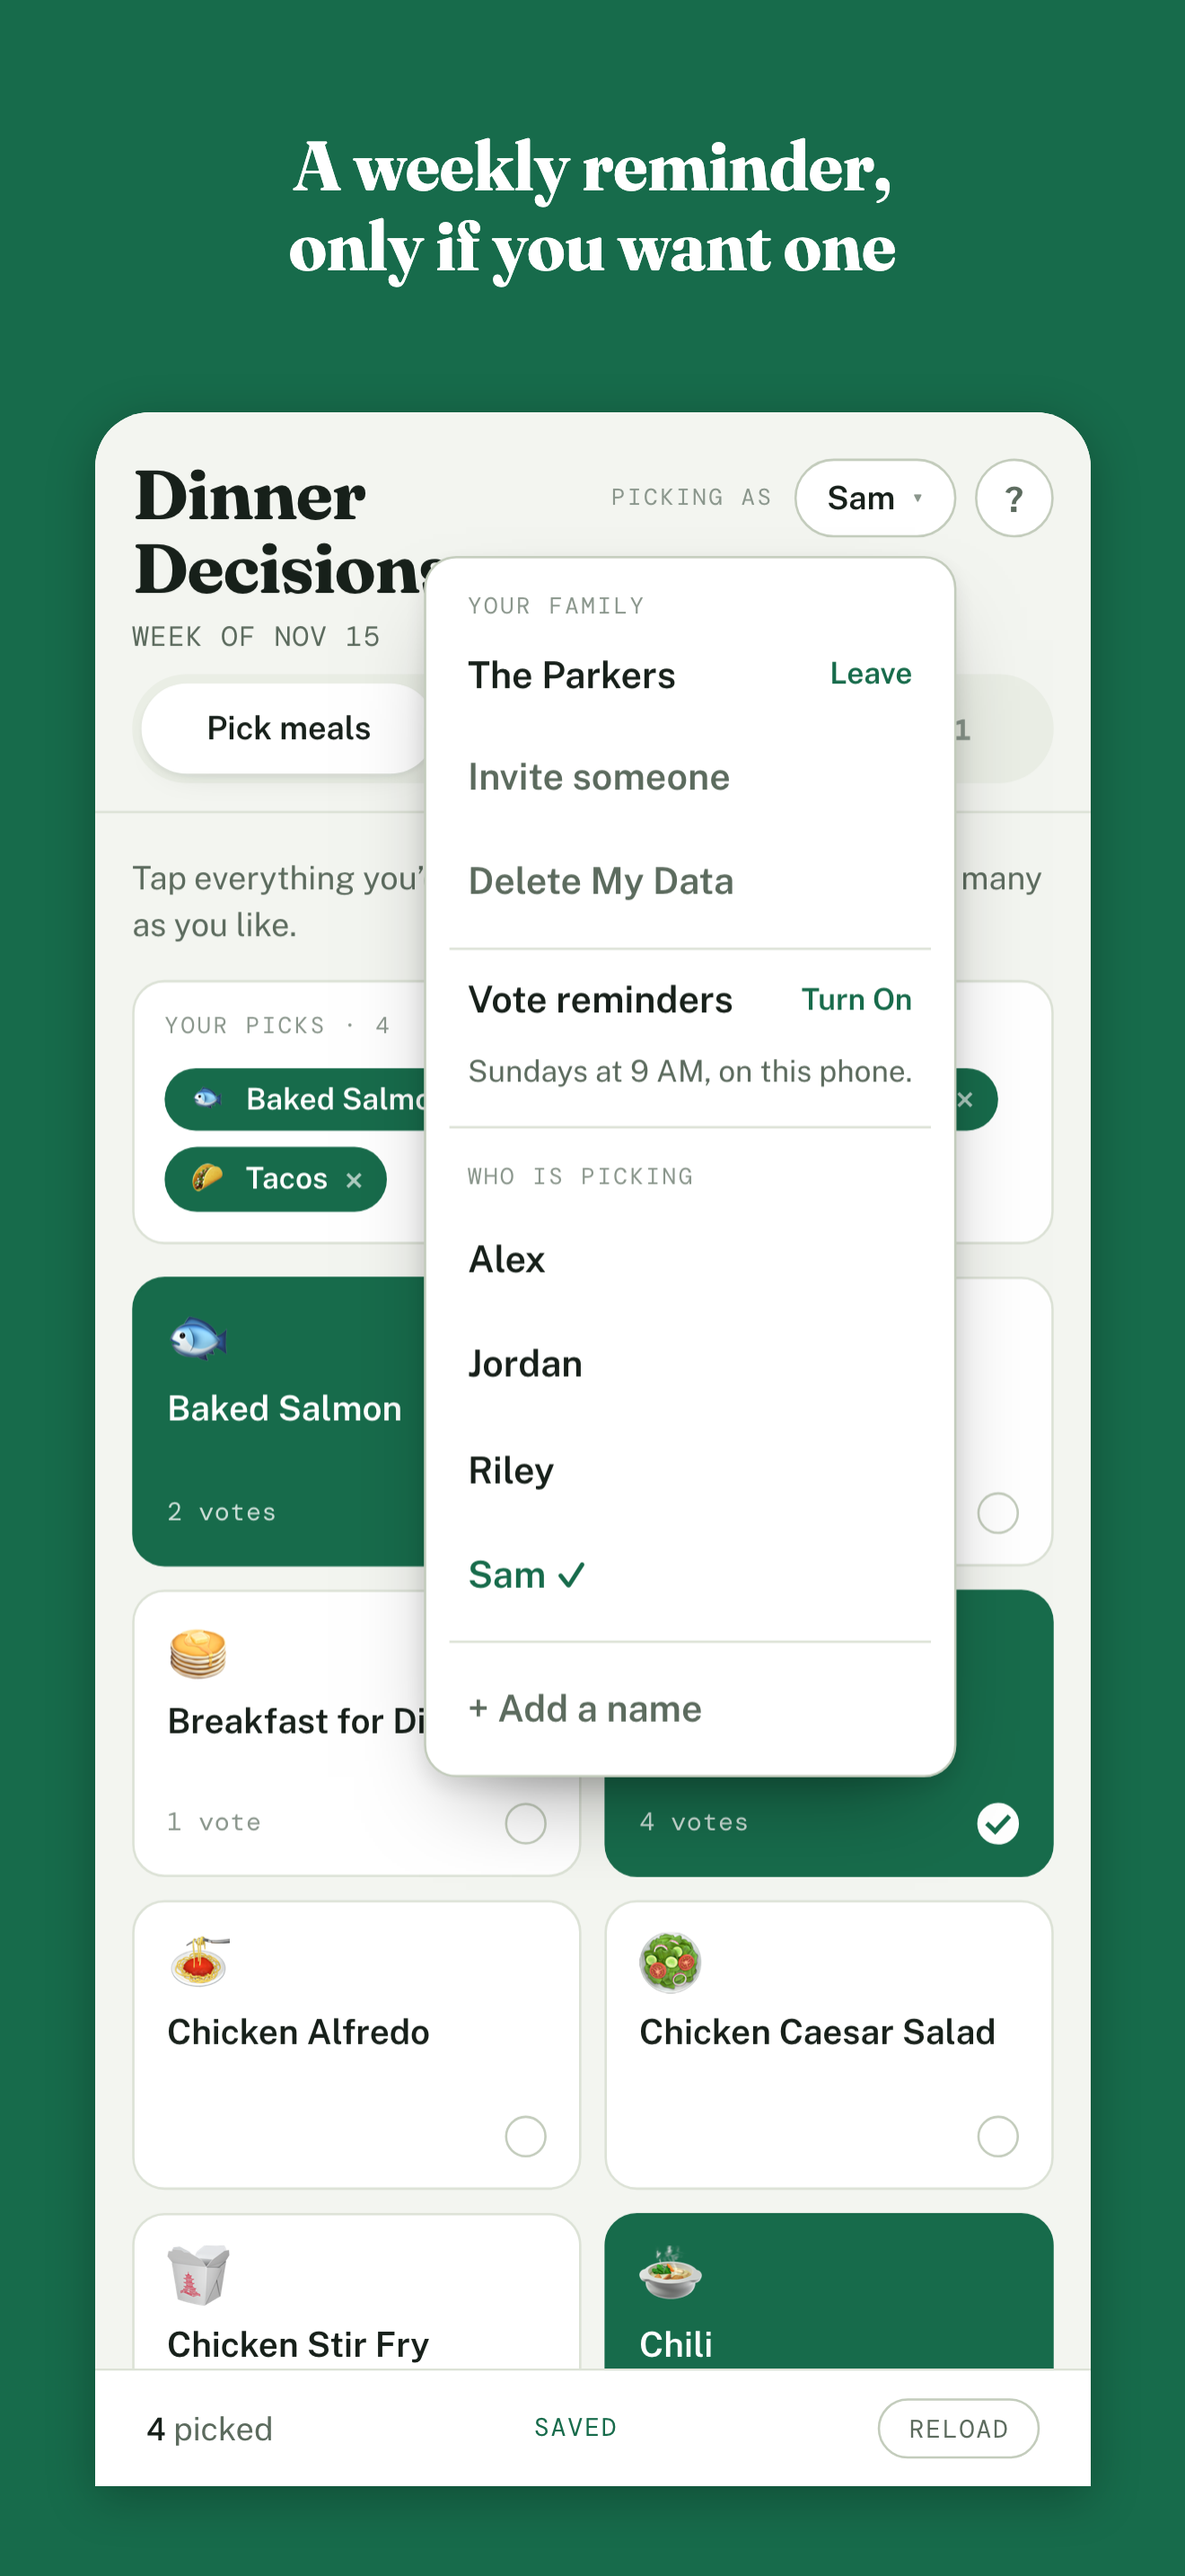
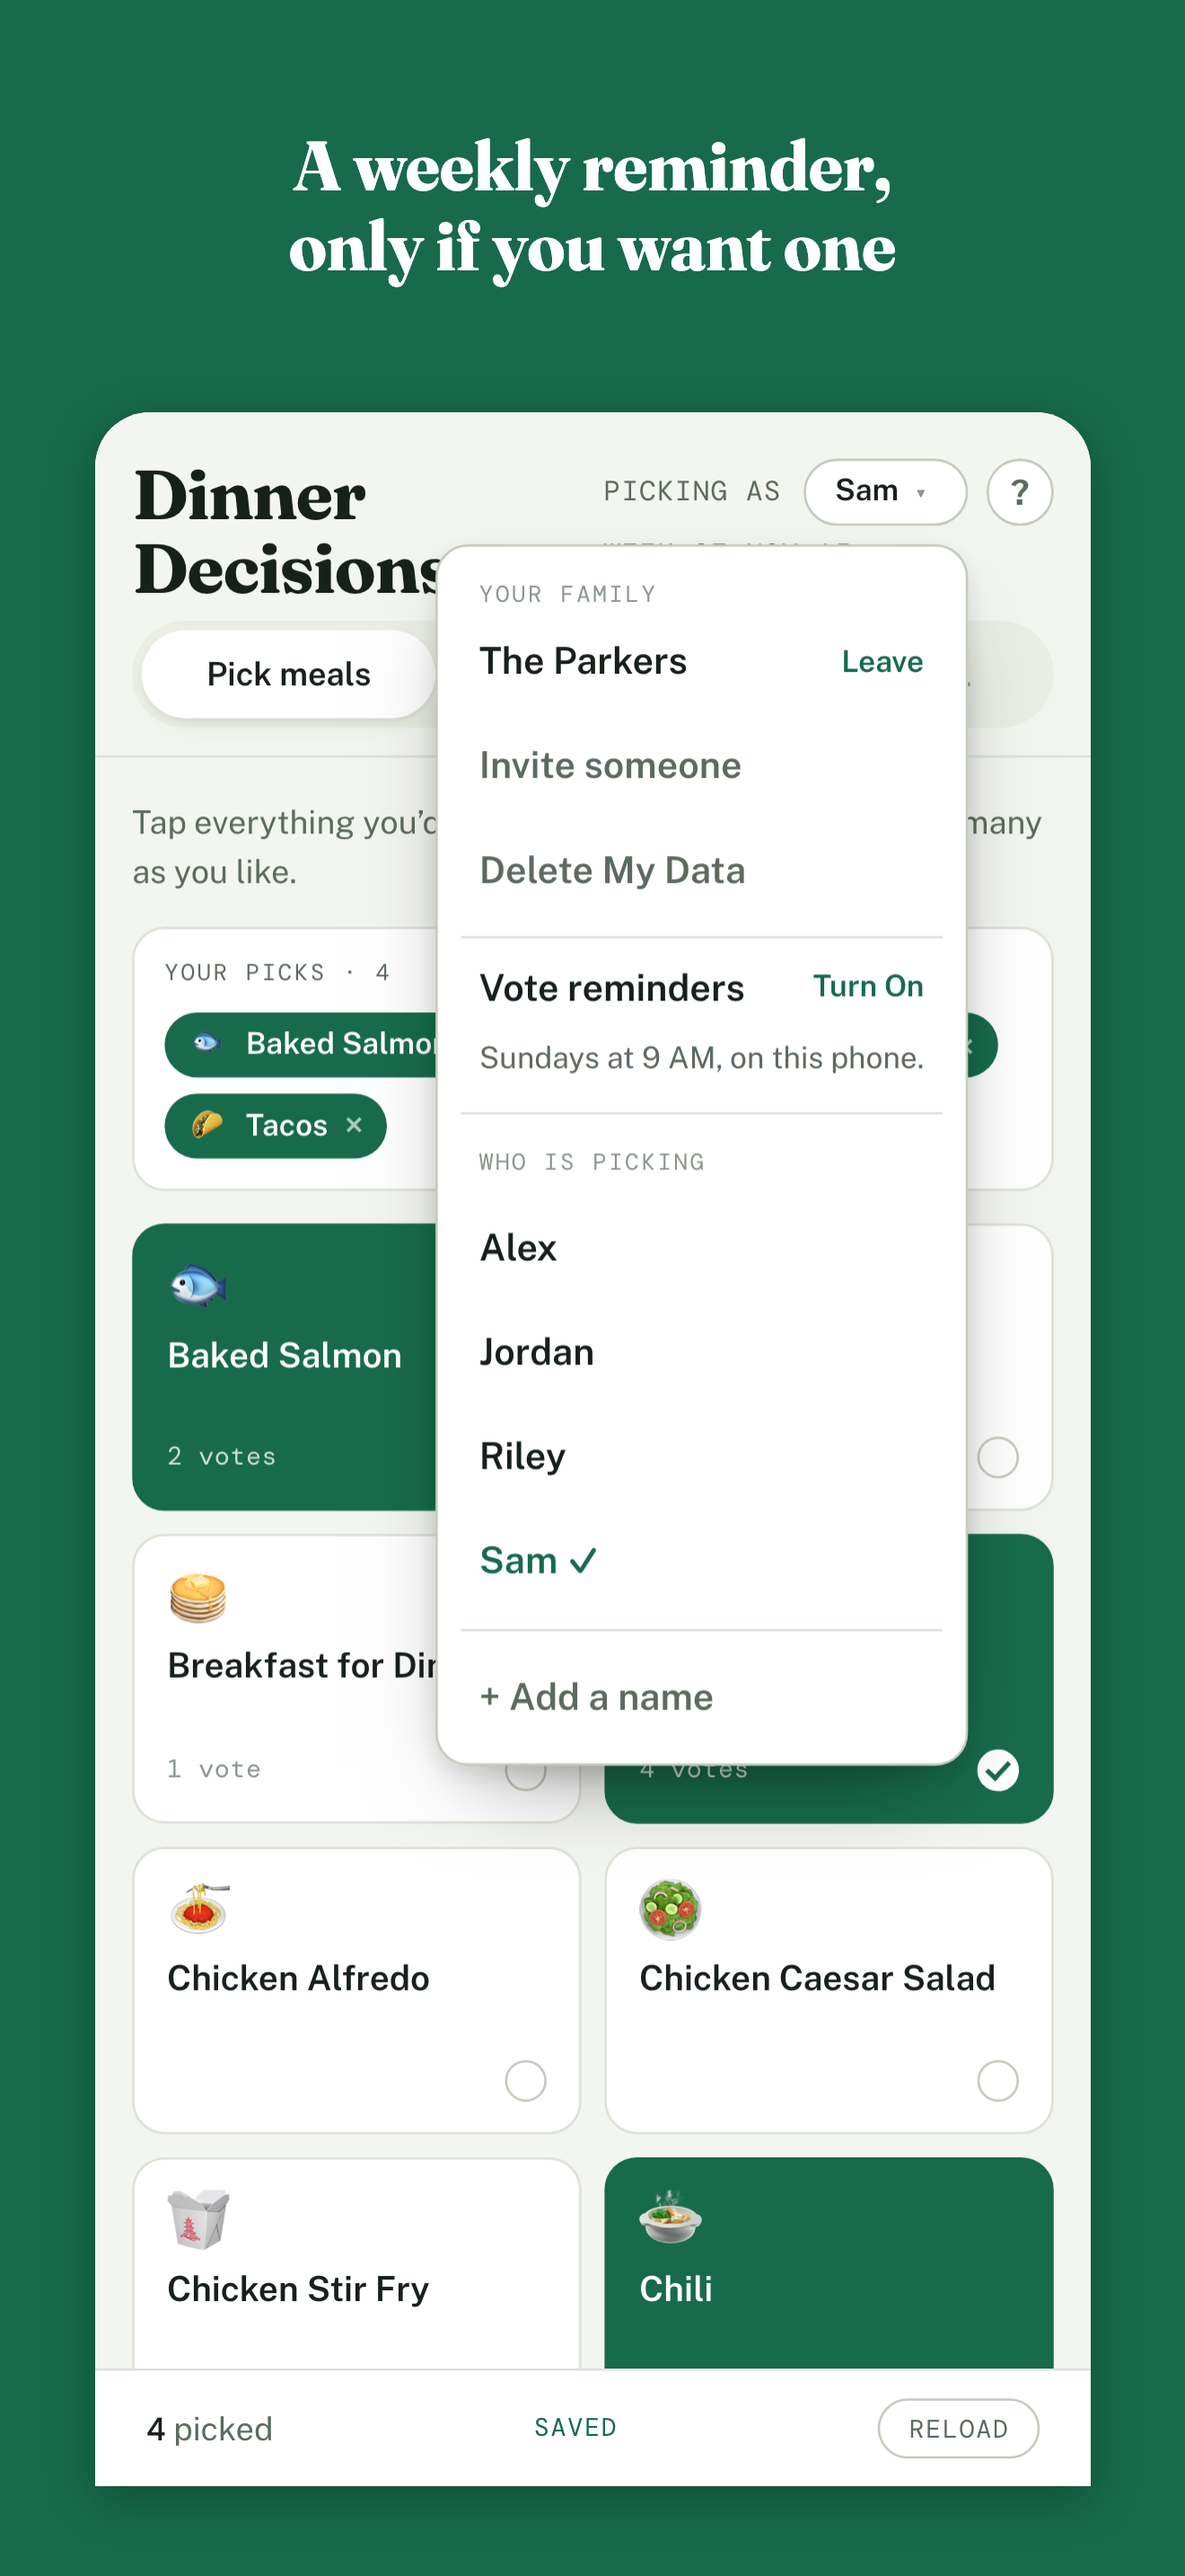
iPhone app on a real phone, and the header changes Mike asked for while trying it
Ran on Mike's iPhone 17 Pro Max with a free Apple ID: sign-in, the haptic tap, Share invite, Share plan, Share list, Print and the reminder prompt all work on the live project. The device build uses a local empty entitlements file, since a personal team cannot carry the two capabilities; nothing in the project changed for it.

index.html, from looking at it on the phone:
- The week line moves under the Picking as chip, as a second line of it, so the corner under the chip is no longer empty when the wordmark wraps.
- Picking as and Your picks labels use the muted ink, not the faint one, so they read; Picking as is the week line's size.
- The name chip is one size smaller with less vertical padding, and the help button matches its height.
- A long name is cut with an ellipsis instead of pushing the row off the screen; the wordmark gives way first, down to two lines.
- The join box puts the dash in as the code is typed; a pasted link is left alone.

store/README.md records the phone results and what is left for TestFlight; the App Store screenshots are redrawn with the new header.

diff --git a/index.html b/index.html
@@ -149,6 +149,11 @@
 
   .wordmark {
     font-family: var(--display);
+    /* Takes what the controls leave, so it wraps to two lines before a long
+       name is cut, and never grows past one line. */
+    flex: 1 1 0;
+    min-width: min-content;
+    max-width: max-content;
     font-optical-sizing: auto;
     font-weight: 700;
     font-size: 30px;
@@ -158,17 +163,21 @@
     text-wrap: balance;
   }
 
+  /* Sits under the name chip, on the right: on a phone the wordmark wraps
+     to two lines and that corner was empty. It reads as a second line
+     under "Picking as". */
   .week-line {
     font-family: var(--mono);
     font-size: 12px;
     letter-spacing: .04em;
     text-transform: uppercase;
     color: var(--ink-muted);
-    margin-top: 6px;
+    text-align: left;
   }
 
   .whoami {
-    flex: none;
+    flex: 0 1 auto;
+    min-width: 0;
     display: flex;
     align-items: center;
     gap: 9px;
@@ -176,21 +185,25 @@
 
   .whoami-label {
     font-family: var(--mono);
-    font-size: 10px;
-    letter-spacing: .1em;
+    flex: none;
+    white-space: nowrap;
+    font-size: 12px;
+    letter-spacing: .04em;
     text-transform: uppercase;
-    color: var(--ink-faint);
+    color: var(--ink-muted);
   }
 
   .chip {
     font: inherit;
     font-weight: 600;
-    font-size: 14px;
+    font-size: 13px;
+    min-width: 5.5em;
+    max-width: 100%;
     color: var(--ink);
     background: var(--surface);
     border: 1px solid var(--line-strong);
     border-radius: var(--r-pill);
-    padding: 6px 13px;
+    padding: 4px 13px;
     cursor: pointer;
     display: inline-flex;
     align-items: center;
@@ -199,10 +212,23 @@
 
   .chip:hover { border-color: var(--accent); }
   .chip .caret { color: var(--ink-faint); font-size: 11px; }
+  /* A long name is cut with an ellipsis rather than pushing the row off
+     the screen. */
+  .chip #whoName { min-width: 0; overflow: hidden; text-overflow: ellipsis; white-space: nowrap; }
 
   .masthead-side {
-    flex: none;
+    flex: 0 1 auto;
+    min-width: 0;
     display: flex;
+    flex-direction: column;
+    align-items: stretch;
+    gap: 4px;
+  }
+
+  .masthead-controls {
+    display: flex;
+    min-width: 0;
+    justify-content: flex-end;
     align-items: center;
     gap: 8px;
   }
@@ -211,8 +237,8 @@
      one row of controls. */
   .help-btn {
     flex: none;
-    width: 34px;
-    height: 34px;
+    width: 29px;
+    height: 29px;
     padding: 0;
     font: inherit;
     font-weight: 700;
@@ -316,9 +342,9 @@
   /* Sticks to the top so the tabs stay reachable from anywhere in a long
      list. It bleeds past the wrap's padding so the ground and the rule run
      the full width rather than leaving gutters for content to show through.
-     The negative top margin makes the gap from the week line's letters to
-     the pill the same 12px as the pill to the rule below: the week line's
-     box runs about 5px below its capitals, and the 8px top padding has to
+     The negative top margin makes the gap from the masthead's last letters
+     to the pill about the same 12px as the pill to the rule below: a text
+     box runs a few px below its capitals, and the 8px top padding has to
      stay for when the bar is stuck to the top of the screen. */
   .tabbar {
     position: sticky;
@@ -463,7 +489,7 @@
     font-size: 10px;
     letter-spacing: .1em;
     text-transform: uppercase;
-    color: var(--ink-faint);
+    color: var(--ink-muted);
     margin-bottom: 3px;
   }
 
@@ -1481,18 +1507,18 @@
 
 <div class="wrap">
   <header class="masthead">
-    <div>
-      <h1 class="wordmark">Dinner Decisions</h1>
-      <div class="week-line" id="weekLine">&nbsp;</div>
-    </div>
+    <h1 class="wordmark">Dinner Decisions</h1>
     <div class="masthead-side">
-      <div class="whoami">
-        <span class="whoami-label">Picking as</span>
-        <button class="chip" id="whoBtn" type="button">
-          <span id="whoName">Choose&hellip;</span><span class="caret">&#9662;</span>
-        </button>
+      <div class="masthead-controls">
+        <div class="whoami">
+          <span class="whoami-label">Picking as</span>
+          <button class="chip" id="whoBtn" type="button">
+            <span id="whoName">Choose&hellip;</span><span class="caret">&#9662;</span>
+          </button>
+        </div>
+        <button class="help-btn" id="helpBtn" type="button" aria-label="How it works" title="How it works">?</button>
       </div>
-      <button class="help-btn" id="helpBtn" type="button" aria-label="How it works" title="How it works">?</button>
+      <div class="week-line" id="weekLine">&nbsp;</div>
     </div>
   </header>
 
@@ -1712,6 +1738,16 @@
   }
 
   function showCode(code) { return code.slice(0, 5) + "-" + code.slice(5); }
+
+  // Puts the dash in as the code is typed, so the box reads like the invite.
+  // A pasted link is left alone, since parseCode reads the code out of it.
+  function formatCodeInput(el) {
+    var raw = el.value;
+    if (/join=|\//.test(raw)) return;
+    var code = parseCode(raw).slice(0, 10);
+    var shown = code.length > 5 ? showCode(code) : code;
+    if (shown !== raw) el.value = shown;
+  }
 
   // Inside the store apps the page's own address belongs to the app, which
   // no other phone can open, so there an invite always points at the site.
@@ -4124,6 +4160,7 @@
   // The delete button arms only once the family's name has been typed.
   document.addEventListener("input", function (ev) {
     if (ev.target.id === "deleteConfirm") $("deleteGo").disabled = !deleteArmed();
+    if (ev.target.id === "joinCode") formatCodeInput(ev.target);
     if (ev.target.id === "joinCode" || ev.target.id === "startFamily" || ev.target.id === "startName") dialogError("");
   });
 

diff --git a/store/README.md b/store/README.md
@@ -98,9 +98,11 @@ Firebase Authentication's own "Authorized domains" list (Authentication, Setting
 
 ## Known gaps
 
-- **iPhone: built and tried in the simulator on Nov 20, 2026** (Xcode 27.2, iOS 27.2, `mise run ios-sim`), not yet on a real iPhone.
-  Sign-in, starting a family, Share invite, Share plan, Print (a PDF to the share sheet, and its Print action), Vote reminders (the permission prompt and Turn On), Delete My Data, dark mode and the icon all work.
+- **iPhone: built and tried on Nov 20, 2026** in the simulator (Xcode 27.2, iOS 27.2, `mise run ios-sim`) and on Mike's iPhone 17 Pro Max (iOS 27.2.1, free Apple ID, Developer Mode).
+  Simulator: sign-in, starting a family, Share invite, Share plan, Share list, Print (a PDF to the share sheet, and its Print action), Vote reminders (the prompt, Turn On, Turn Off), Delete My Data, dark mode, the splash and the icon all work.
+  Phone, on the live project in the demo family: sign-in, the haptic tap on a pick, Share invite, Share plan, Share list, Print and the reminder prompt (declined, and the note about the phone's settings showed) all work.
   The known iPhone sign-in problem is dealt with: Firebase Auth's compat SDK loads Google's popup sign-in helper (an iframe from `apis.google.com`) on phones, which is the known cause of slow or stuck sign-in inside iPhone apps.
   `scripts/build-app.mjs` removes that helper from the app's copy only (the change Firebase recommends for Capacitor); the Android device test and `mise run ios-test` check a fresh install signs in within seconds.
-  Still to try on a real iPhone: the haptic tap, and invite links once `store/app-links.json` has the Team ID.
+  Left for the TestFlight build: turning reminders on on a real phone, and invite links once `store/app-links.json` has the Team ID.
+  A free team cannot carry the two entitlements in `App.entitlements`, so the device build used a local empty copy (never committed); the project file is unchanged.
 - Google Play now lists Android 17 (API 37). Capacitor 8 targets API 36, which Play accepts for new apps until its next yearly deadline (normally August).
